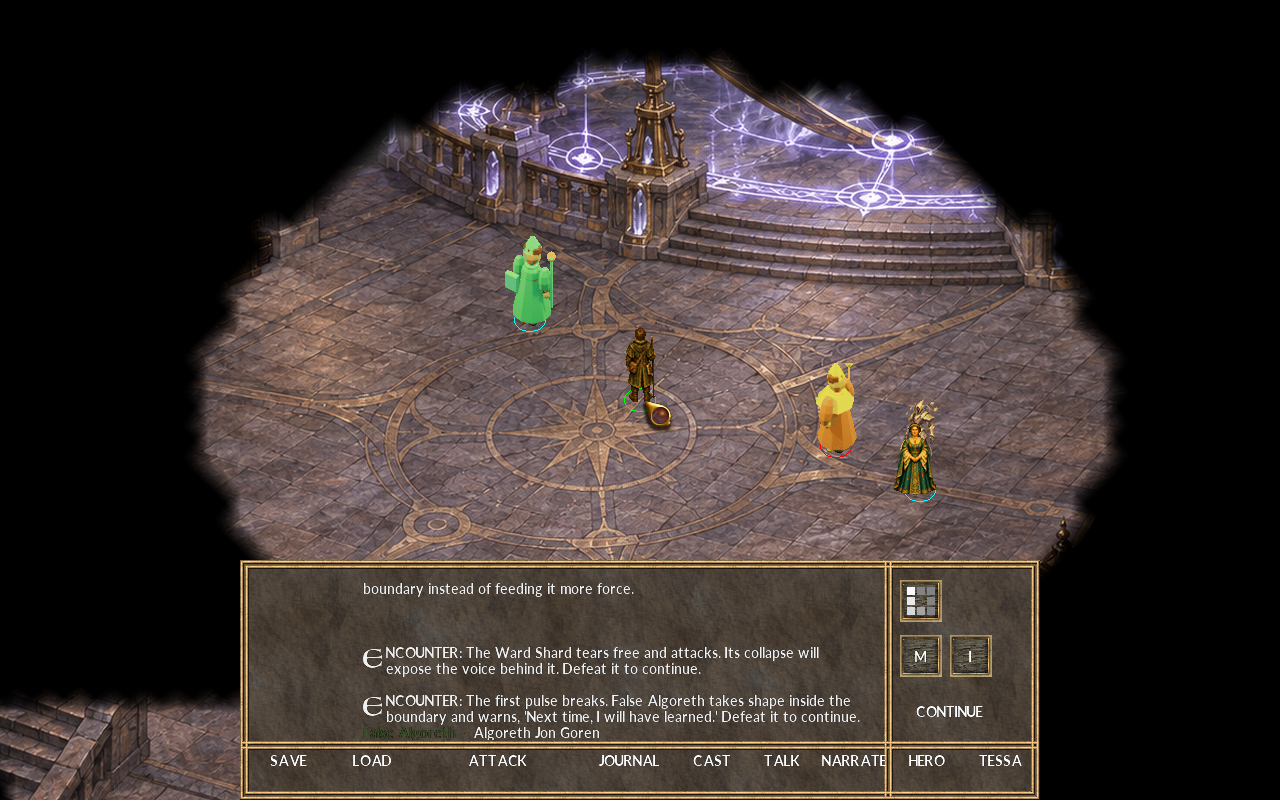
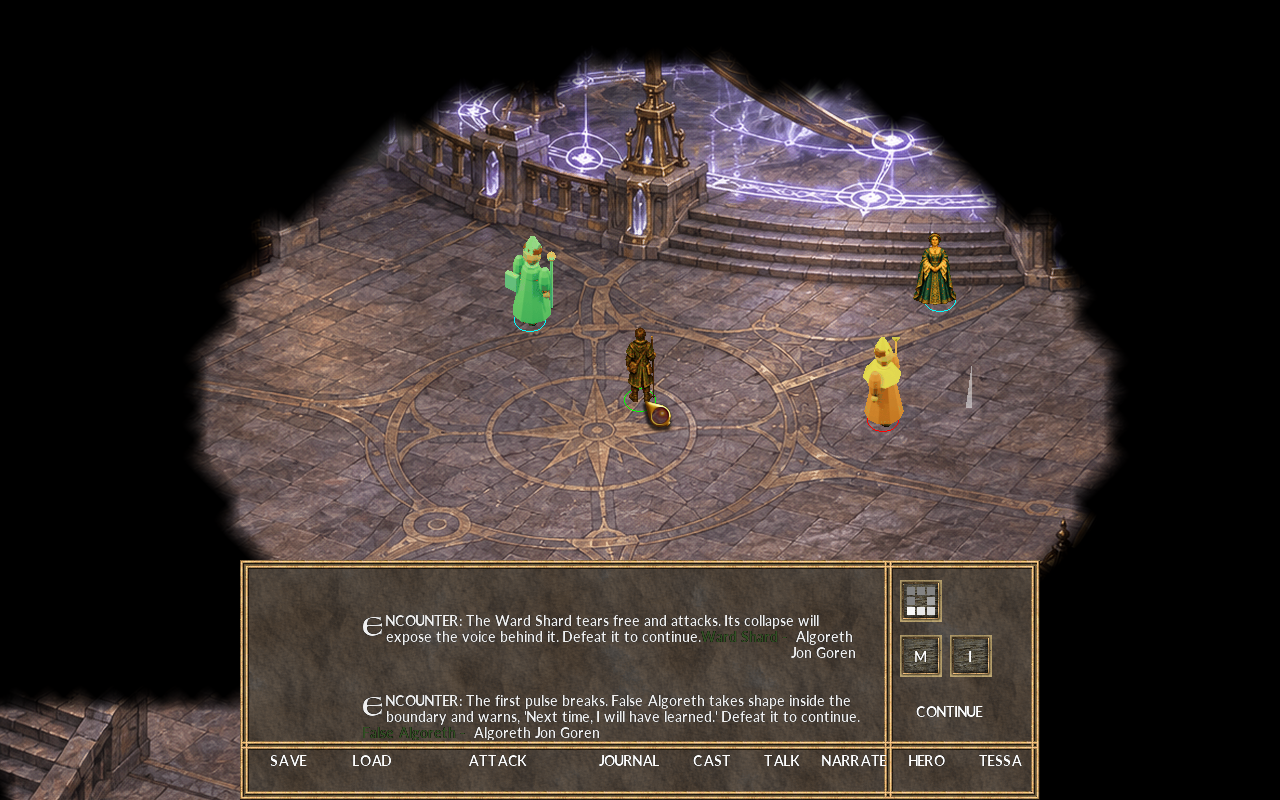
Spawn deferred Academy cast on story beats

diff --git a/gemrb/GUIScripts/terralum/MessageWindow.py b/gemrb/GUIScripts/terralum/MessageWindow.py
@@ -145,6 +145,22 @@ def OnLoad():
 		else:
 			portrait_button.SetVisible(False)
 
+	def create_scene_actor(person):
+		actor = GemRB.CreateCreature(1, person.get("avatar_creature", person["creature"]),
+								 person["position"][0], person["position"][1])
+		GemRB.SetPlayerName(actor, person["name"], 0)
+		if person["creature"] in ("protagon", "riddler"):
+			palette = NPC_PALETTES_BY_NAME[person["name"]]
+			GemRB.SetPlayerStat(actor, IE_HAIR_COLOR, palette[0])
+			GemRB.SetPlayerStat(actor, IE_MAJOR_COLOR, palette[1])
+			GemRB.SetPlayerStat(actor, IE_MINOR_COLOR, palette[2])
+		GemRB.SetPlayerStat(actor, IE_EA, NEUTRAL)
+		if person.get("dialog"):
+			GemRB.SetPlayerDialog(actor, person["dialog"])
+		if person.get("spawn_flag"):
+			GemRB.SetGlobal(person["spawn_flag"], "GLOBAL", actor)
+		return actor
+
 	def spawn_cast(chapter_index):
 		chapter = chapters[chapter_index]
 		if GemRB.GetCurrentArea().lower() != chapter["area"]:
@@ -155,24 +171,28 @@ def OnLoad():
 			spawn_beat = person.get("spawn_beat")
 			if spawn_beat is not None and GemRB.GetGameVar("TLBEAT") < spawn_beat:
 				continue
-			actor = GemRB.CreateCreature(1, person.get("avatar_creature", person["creature"]),
-									 person["position"][0], person["position"][1])
-			GemRB.SetPlayerName(actor, person["name"], 0)
-			if person["creature"] in ("protagon", "riddler"):
-				palette = NPC_PALETTES_BY_NAME[person["name"]]
-				GemRB.SetPlayerStat(actor, IE_HAIR_COLOR, palette[0])
-				GemRB.SetPlayerStat(actor, IE_MAJOR_COLOR, palette[1])
-				GemRB.SetPlayerStat(actor, IE_MINOR_COLOR, palette[2])
-			GemRB.SetPlayerStat(actor, IE_EA, NEUTRAL)
-			if person.get("dialog"):
-				GemRB.SetPlayerDialog(actor, person["dialog"])
-			if person.get("spawn_flag"):
-				GemRB.SetGlobal(person["spawn_flag"], "GLOBAL", actor)
+			spawn_flag = person.get("spawn_flag")
+			if spawn_flag and GemRB.GetGameVar(spawn_flag):
+				continue
+			create_scene_actor(person)
 		if chapter["area"] == "tl0002" and GemRB.GetGameVar("TLMARALEAD") == 2:
 			warden = GemRB.CreateCreature(1, "riddler", 850, 650)
 			GemRB.SetPlayerName(warden, "Edmon's Waywarden", 0)
 			GemRB.SetPlayerStat(warden, IE_EA, NEUTRAL)
 		GemRB.SetGlobal("TLCAST", "GLOBAL", chapter_index + 1)
+
+	def spawn_deferred_cast(chapter_index, beat_index):
+		chapter = chapters[chapter_index]
+		if GemRB.GetCurrentArea().lower() != chapter["area"]:
+			return
+		for person in Story.cast(chapter["area"]):
+			spawn_beat = person.get("spawn_beat")
+			spawn_flag = person.get("spawn_flag")
+			if spawn_beat is None or beat_index < spawn_beat:
+				continue
+			if spawn_flag and GemRB.GetGameVar(spawn_flag):
+				continue
+			create_scene_actor(person)
 
 	def talk_to_scene_npc():
 		if dialogue_state["must_finish_followup"]:
@@ -532,6 +552,7 @@ def OnLoad():
 		chapter_index = GemRB.GetGameVar("TLCHAP")
 		beat_index = GemRB.GetGameVar("TLBEAT")
 		chapter = chapters[chapter_index]
+		spawn_deferred_cast(chapter_index, beat_index)
 		# GemRB's AddJournalEntry reads the game-script CHAPTER global; SetVar
 		# only updates the separate GUI dictionary and does not select a journal page.
 		GemRB.SetGlobal("CHAPTER", "GLOBAL", chapter["act"])

diff --git a/tools/terralum/test_campaign_flow.py b/tools/terralum/test_campaign_flow.py
@@ -239,6 +239,10 @@ assert sorted({chapter["act"] for chapter in chapters}) == list(range(1, 8))
 for chapter_index, chapter in enumerate(chapters):
     assert globals_["TLCHAP"] == chapter_index
     assert current_area == chapter["area"]
+    falseal_spawn_count = sum(event[0] == "spawn" and event[1][1] == "falseal" for event in events)
+    if chapter["area"] == "tl0005":
+        # False Algoreth must stay out of the neutral cast through the Ward Shard phase.
+        assert falseal_spawn_count == 0
     if chapter["area"] == "tl0010":
         # The native DLG puzzle is verified in test_native_dialogues; this
         # end-to-end panel mock enters the scene with the puzzle already solved.
@@ -358,6 +362,8 @@ for chapter_index, chapter in enumerate(chapters):
                 assert "Dorian's inscription" in window.controls[0].text
                 assert "skirts the stalker's ambush" in window.controls[0].text
                 continue
+            if chapter["area"] == "tl0005":
+                assert sum(event[0] == "spawn" and event[1][1] == "falseal" for event in events) == 0
             window.controls[4].press()
             assert any(event[:2] == ("attack", "Attack(Player1)") for event in events)
             assert globals_["TLENEMY"] > 1001
@@ -380,6 +386,8 @@ for chapter_index, chapter in enumerate(chapters):
                 assert "False Algoreth" in window.controls[0].text, window.controls[0].text
         window.controls[4].press()
         enemy_dead = False
+        if chapter["area"] == "tl0005" and beat.get("encounter_phases"):
+            assert sum(event[0] == "spawn" and event[1][1] == "falseal" for event in events) == 1
     while timed_events:
         timed_events.pop(0)()
     if chapter_index + 1 < len(chapters):
@@ -562,7 +570,7 @@ for purpose_index, guardian_line in enumerate(guardian_lines):
     current_area = "tl0003"
     enemy_dead = False
     globals_.update({"TLCHAP": chapter_index_by_area["tl0003"], "TLBEAT": 0, "TLENEMY": 0, "TLCAST": 0,
-                     "TLLORIANPURPOSE": 0, "TLJRN_LORIAN_PURPOSE": 0})
+                     "TLLORIANPURPOSE": 0, "TLJRN_LORIAN_PURPOSE": 0, "TLLORIAN_GUARDIAN": 0})
     campaign.OnLoad()
     while timed_events:
         timed_events.pop(0)()
@@ -1439,7 +1447,7 @@ for warding in (1, 2):
     window.controls[4].press()
     window.controls[4].press()
     assert "Ward Shard" in window.controls[0].text, window.controls[0].text
-    assert (1, "wrdshard", 1100, 600) in [event[1] for event in events if event[0] == "spawn"]
+    assert (1, "wrdshard", 930, 600) in [event[1] for event in events if event[0] == "spawn"]
     enemy_dead = True
     window.controls[4].press()
     assert "False Algoreth" in window.controls[0].text

diff --git a/TODO.md b/TODO.md
@@ -107,7 +107,7 @@ This is the current work ledger for human and AI contributors. Read [AGENTS.md](
 - [x] **Tune and verify the Mistwood ambush.** The Stalker and Prowler use authored 10/8 HP and -2 damage bonuses, split attacks across Algoreth and Tessa, and spawn on visible road tiles. Party THAC0 temporarily changes to 14 during the encounter and returns to its saved value when both foes fall. Live GemRB combat confirms both party members attack, both enemies die, the victory gate advances, and the Journal records the cleared road (`terralum/screenshots/mistwood-victory-gate-live.png`, `terralum/screenshots/mistwood-victory-journal-live.png`).
 - [x] **Verify save/load after the Mistwood victory.** Saved as `Terralum 001 - Mistwood Road` after the victory gate, reloaded it through the custom save list, and confirmed the ambush resolution remains in the Journal (`terralum/screenshots/mistwood-victory-saved.png`, `terralum/screenshots/mistwood-victory-reloaded-journal.png`).
 - [ ] **Journal verification:** thirty-three event flags, including the Act III return-road record, Act IV evidence docket, academy warding decision, Eldrador evidence/protocol choices, and conditional Mistwood and Deep Archive encounter victories, pass script mocks. A continuous fresh GemRB run visibly recorded Mara, Inessa, Leora, and the Relay patrol choice under Acts I and II. Verify Ilya's choice event and later act sections in-game, then confirm those later journal and choice states survive an actual save/load.
-- [ ] **Playable-scene verification:** The extended pack builds all 26 areas and GemRB starts. A live run transitions from Market to Library and displays Inessa's branch-specific line after save/load. A prior isolated Academy run showed Magister Vael, Queen Alisande, and Algoreth in the vault; a test-injected defeat advanced the script into the painted False Algoreth phase. This pass corrected the Queen and both enemy positions onto cells that the all-area connectivity check confirms are walkable; the previous screenshots predate those corrected coordinates and need a fresh visual review. Phase transition is script/build verified, not a player-driven victory. Academy combat, save/load recovery, other areas, exits, and later campaign-state persistence remain open. The earlier WSLg scene interaction remains unverified. Startup still logs missing demo resources and an invalid `dialog.tlk` seek; a historical direct target-mode interaction also logged an invalid `runtopoint([0.0])` action once while Saren's DLG opened.
+- [ ] **Playable-scene verification:** The extended pack builds all 26 areas and GemRB starts. A live run transitions from Market to Library and displays Inessa's branch-specific line after save/load. A corrected isolated Academy setup now changes both chapter and current area to `TL0005`; its log confirms the Observatory Vault ARE/WED/TIS/MOS plus Magister, Queen, Ward Shard, and False Algoreth CRE resources load. Fresh captures show Magister Vael and Queen Alisande on walkable floor cells, the Ward Shard visible near the central ring, and the test-injected phase-two False Algoreth spawn. Phase transition is script/build verified, not a player-driven victory. Academy combat, save/load recovery, other areas, exits, and later campaign-state persistence remain open. The earlier WSLg scene interaction remains unverified. Startup still logs missing demo resources and an invalid `dialog.tlk` seek; a historical direct target-mode interaction also logged an invalid `runtopoint([0.0])` action once while Saren's DLG opened.
 - [ ] **Art and geometry:** All 42 unique named NPCs have distinct portrait resources and custom 9-direction BAM world sprites. Named treatments include Mara, Leora, Inessa, Tessa, Saren, the Wayfarer, Dorian, Lorian, Ilya, Pell, Fen, Sella, Doma, and Eren, alongside role-specific palette and prop variation. Inessa's branch callback is live-verified and Oren is visible at his corrected Library position. Inspect the remaining cast in scene, and replace inherited AR0100 WED geometry and terrain/height/light files with authored areas. Market movement is live-verified; movement in other areas is not.
 - [ ] **Campaign length:** 26 locations and 65 beats form an expanded prototype, not a long-form campaign. Act I/II add trail, courier, route-record, Waywarden Relay, and anonymous Wayfarer-warning quests; Act III adds a returning Watchpost scene with route-preservation consequences; Act IV now has an evidence docket; Act V adds a warding choice, four stateful False Algoreth lines, and a two-stage false-echo battle; Act VI adds an optional Index Warden challenge and a staged question for Eldrador’s warders; Act VII covers departure, Eldrador evidence gathering, and a cautious sanctuary approach while leaving the Tear unresolved. Deeper quest arcs remain; see `terralum/campaign_plan.md`.
 
@@ -127,7 +127,7 @@ This is the current work ledger for human and AI contributors. Read [AGENTS.md](
 ### P1 — Make every scene coherent and navigable
 
 - [x] Added and connectivity-checked custom searchmaps for all 26 scenes, including the Archives Trial Hall, Market, Court, Observatory Vault, Skyport, Library, Academy Courtyard, Index Hall, and Hangar.
-- [ ] Replace shared WED geometry, entrances, terrain/height/light maps, and prove party movement in every scene. Fresh isolated Academy review still shows inherited bazaar-like demo geometry around its custom vault art; fix the area presentation before treating its actor staging as complete.
+- [ ] Replace shared WED geometry, entrances, terrain/height/light maps, and prove party movement in every scene. The fresh Academy review now confirms the custom vault tileset loads; the custom art still uses the demo WED layout and needs geometry/entrance review against the walkable masks.
 - [x] Add focused searchmap checks for dimensions/palette, blocked terrain and props, and four-way connectivity from the party start to scene NPCs, encounter spawns, and exits.
 - [ ] Review the remaining NPC sprites in their live scene placements and improve any that still blend together. Mara and Leora have character-specific animated models; this pass adds distinctive stole/folio, hood/quiver, marshal mantle/spear, and weather-cloak/lantern silhouettes for Inessa, Tessa, Saren, and the Wayfarer. Fresh GemRB scenes verify Inessa at the Library, Tessa at Hunter's Camp, Saren at the Relay, and the moved Wayfarer at Mistwood; continue checking the wider cast.
 - [x] Fixed Stablemaster Edda's blank marker in the Royal Stables by moving her from `(600, 520)` into the open courtyard at `(700, 620)`; the position remains connected on the scene searchmap. Removed protagonist-only `DPLAYER3` from generated NPC/enemy CRE clones. Fresh GemRB capture `terralum/screenshots/stables-edda-position-test.png` shows Edda visible beside Algoreth and Groom Tavin.

diff --git a/terralum/README.md b/terralum/README.md
@@ -56,7 +56,15 @@ Four generated portrait sheets now provide medium and small GemRB portrait resou
 
 Mistwood's two ambushers use their own painted 2D enemy sprites instead of generic protagonist/riddler placeholders. Their encounter CREs and animation rows are registered separately from neutral scene NPCs in `enemy_avatars.json`. Each enemy has a directional painted attack sheet and idle–strike–recovery melee BAMs. Algoreth has a painted 3×3 turnaround and nine directional staff attack views. The Pale-stone Prowler's old `(1120, 560)` road spawn showed its hostile circle without its body; moving it to `(1080, 480)` makes the painted enemy visible in a fresh GemRB build. A live targeted pass confirms Tessa damages the visible Prowler, which had 4 HP remaining at capture. Victory and post-battle save/load remain unverified.
 
-The Academy vault now uses a dedicated painted Ward Shard CRE and directional avatar. False Algoreth is deferred until the second encounter phase; the live scene review confirmed that the Ward Shard and False Algoreth both render on the open floor after moving them off the raised stair tiles. The phase-two script path was exercised with a test-injected defeat state; a normal player-driven win and post-fight save/load still need verification.
+The Academy vault now uses a dedicated painted Ward Shard CRE and directional avatar. False Algoreth is deferred until phase two and uses the painted False Algoreth CRE. Fresh isolated GemRB captures show Magister Vael and Queen Alisande on connected open-floor cells and confirm the phase-two actor spawns. The phase capture uses a test-injected Ward Shard defeat, so a normal player-driven win and post-fight save/load still need verification.
+
+| Academy vault cast | Test-injected phase-two spawn |
+| --- | --- |
+| ![Fresh GemRB Observatory Vault scene with Magister Vael, Queen Alisande, and Algoreth](screenshots/academy-cast-staging-live.png) | ![False Algoreth spawns after the test-injected Ward Shard defeat](screenshots/academy-false-algoreth-phase-live.png) |
+
+The first phase has its own visible painted crystal enemy on the connected central floor:
+
+![Fresh Academy vault capture with the painted Ward Shard beside Algoreth](screenshots/academy-ward-shard-live.png)
 
 ![Fresh GemRB Mistwood ambush showing the painted Stalker, armored Prowler, and balanced player scale](screenshots/player-scale-balanced-live.png)
 

diff --git a/LEARNINGS.md b/LEARNINGS.md
@@ -188,3 +188,5 @@ GemRB's `avatars.2da` palette mode `0` runs the actor's CRE paper-doll color rem
 
 - **Re-run searchmap connectivity after every actor reposition.** The Academy cast looked separated in a live screenshot, but the Queen and Ward Shard were placed on blocked cells in the custom map. Moving actors from raised scenery is not enough: validate their world coordinates against passability and connectivity, then recapture the scene because old screenshots no longer document the new positions.
 - **Place test-only defeat injection at the first phase spawn.** An isolated Academy script initially marked the second phase dead, so the capture never reached that phase. Injecting the Ward Shard death after its spawn correctly demonstrates the transition, but still does not prove a player-driven victory.
+- **Seed the actual area as well as the story chapter in isolated scene launches.** Setting `TLCHAP` to the Academy while GemRB remained in `TL0001` displayed vault dialogue over the Market and `spawn_cast()` correctly refused to create Academy NPCs. Set both the chapter and actual current area (for example, `GemRB.MoveToArea("TL0005")`) before judging actor visibility, art, or dialogue.
+- **Deferred cast entries need a beat-time spawn pass.** `spawn_cast()` runs only on area entry, so skipping a later-beat NPC there makes it vanish for the rest of the visit. Check deferred entries whenever the story panel renders a new beat, and use the actor's stable global flag to avoid duplicating an enemy already created by a phased encounter.
